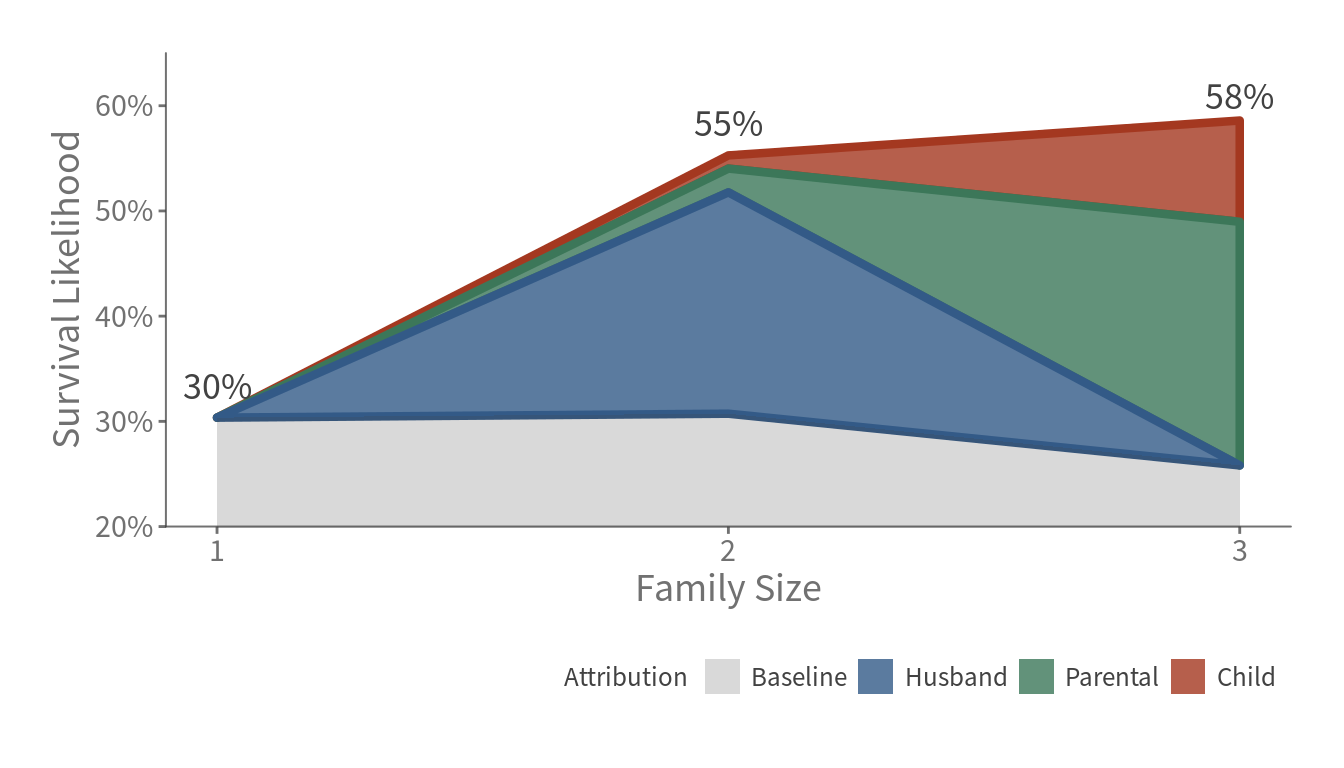
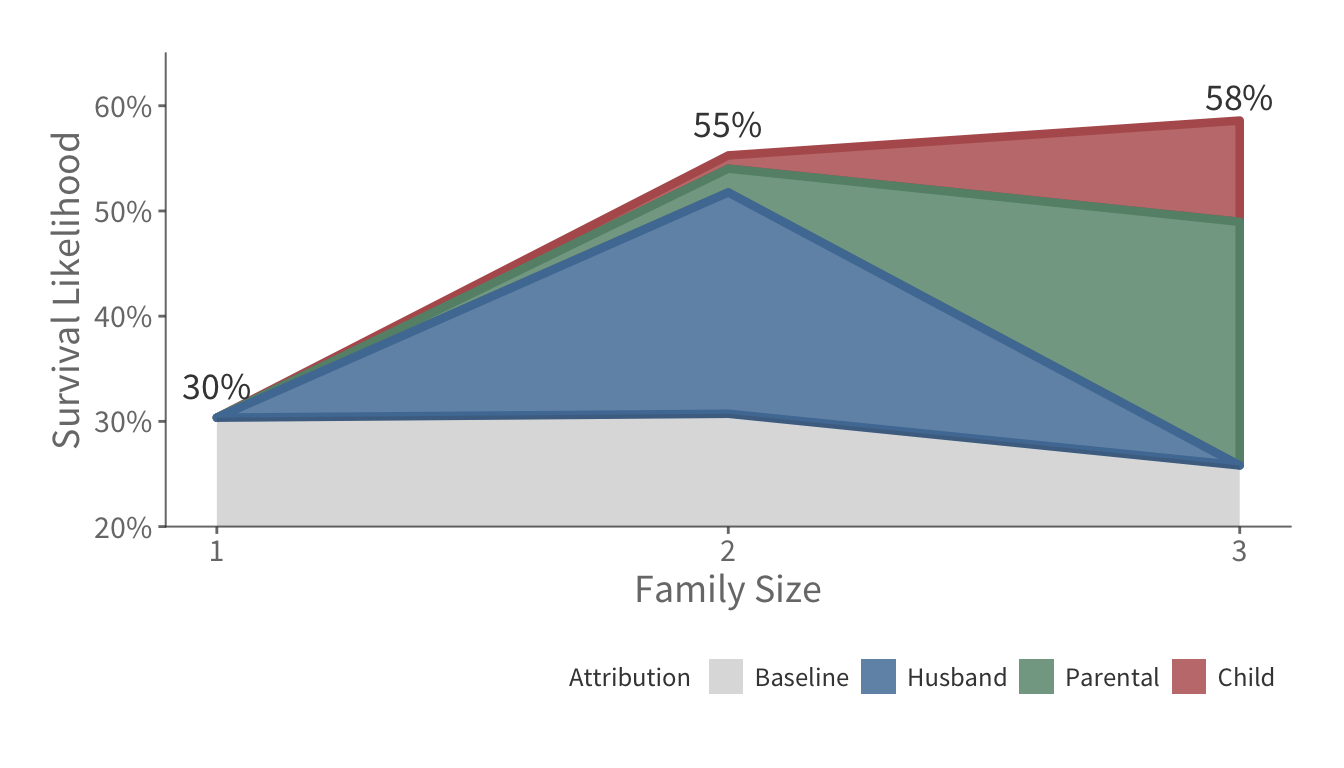
Change color to same intensity

diff --git a/index.html b/index.html
@@ -24,7 +24,7 @@
 <script src="index_files/navigation-1.1/codefolding.js"></script>
 <link href="index_files/highlightjs-9.12.0/default.css" rel="stylesheet" />
 <script src="index_files/highlightjs-9.12.0/highlight.js"></script>
-<script src="index_files/htmlwidgets-0.9/htmlwidgets.js"></script>
+<script src="index_files/htmlwidgets-0.8/htmlwidgets.js"></script>
 <link href="index_files/leaflet-0.7.7/leaflet.css" rel="stylesheet" />
 <script src="index_files/leaflet-0.7.7/leaflet.js"></script>
 <link href="index_files/leafletfix-1.0.0/leafletfix.css" rel="stylesheet" />
@@ -850,8 +850,8 @@ pwalk(
 )
 
 map</code></pre>
-<div id="htmlwidget-baa4f9e59cd2c0474483" style="width:100%;height:268.8px;" class="leaflet html-widget"></div>
-<script type="application/json" data-for="htmlwidget-baa4f9e59cd2c0474483">{"x":{"options":{"crs":{"crsClass":"L.CRS.EPSG3857","code":null,"proj4def":null,"projectedBounds":null,"options":{}}},"calls":[{"method":"addProviderTiles","args":["CartoDB.Positron",null,null,{"errorTileUrl":"","noWrap":false,"zIndex":null,"unloadInvisibleTiles":null,"updateWhenIdle":null,"detectRetina":false,"reuseTiles":false}]},{"method":"addAwesomeMarkers","args":[41.7666636,-50.2333324,{"icon":"ship","markerColor":"gray","iconColor":"#FFFFFF","spin":false,"squareMarker":false,"iconRotate":0,"font":"monospace","prefix":"fa"},null,null,{"clickable":true,"draggable":false,"keyboard":true,"title":"","alt":"","zIndexOffset":0,"opacity":1,"riseOnHover":false,"riseOffset":250},"Titanic Crash Site",null,null,null,null,null,null]},{"method":"addCircleMarkers","args":[49.645009,-1.62444,10,null,null,{"lineCap":null,"lineJoin":null,"clickable":true,"pointerEvents":null,"className":"","stroke":true,"color":"#89942F","weight":5,"opacity":0.8,"fill":true,"fillColor":"#89942F","fillOpacity":0.5,"dashArray":null},null,null,"Cherbough<br>Survival Likelihood: 55%",null,null,null,null]},{"method":"addCircleMarkers","args":[51.851,-8.2967,10,null,null,{"lineCap":null,"lineJoin":null,"clickable":true,"pointerEvents":null,"className":"","stroke":true,"color":"#A43820","weight":5,"opacity":0.8,"fill":true,"fillColor":"#A43820","fillOpacity":0.5,"dashArray":null},null,null,"Queenstown<br>Survival Likelihood: 39%",null,null,null,null]},{"method":"addCircleMarkers","args":[50.9038684,-1.4176118,15,null,null,{"lineCap":null,"lineJoin":null,"clickable":true,"pointerEvents":null,"className":"","stroke":true,"color":"#A43820","weight":5,"opacity":0.8,"fill":true,"fillColor":"#A43820","fillOpacity":0.5,"dashArray":null},null,null,"Southampton<br>Survival Likelihood: 34%",null,null,null,null]}],"limits":{"lat":[41.7666636,51.851],"lng":[-50.2333324,-1.4176118]}},"evals":[],"jsHooks":[]}</script>
+<div id="htmlwidget-c82f9e05cc160eb6d37a" style="width:100%;height:268.8px;" class="leaflet html-widget"></div>
+<script type="application/json" data-for="htmlwidget-c82f9e05cc160eb6d37a">{"x":{"options":{"crs":{"crsClass":"L.CRS.EPSG3857","code":null,"proj4def":null,"projectedBounds":null,"options":{}}},"calls":[{"method":"addProviderTiles","args":["CartoDB.Positron",null,null,{"errorTileUrl":"","noWrap":false,"zIndex":null,"unloadInvisibleTiles":null,"updateWhenIdle":null,"detectRetina":false,"reuseTiles":false}]},{"method":"addAwesomeMarkers","args":[41.7666636,-50.2333324,{"icon":"ship","markerColor":"gray","iconColor":"#FFFFFF","spin":false,"squareMarker":false,"iconRotate":0,"font":"monospace","prefix":"fa"},null,null,{"clickable":true,"draggable":false,"keyboard":true,"title":"","alt":"","zIndexOffset":0,"opacity":1,"riseOnHover":false,"riseOffset":250},"Titanic Crash Site",null,null,null,null,null,null]},{"method":"addCircleMarkers","args":[49.645009,-1.62444,10,null,null,{"lineCap":null,"lineJoin":null,"clickable":true,"pointerEvents":null,"className":"","stroke":true,"color":"#8F9B41","weight":5,"opacity":0.8,"fill":true,"fillColor":"#8F9B41","fillOpacity":0.5,"dashArray":null},null,null,"Cherbough<br>Survival Likelihood: 55%",null,null,null,null]},{"method":"addCircleMarkers","args":[51.851,-8.2967,10,null,null,{"lineCap":null,"lineJoin":null,"clickable":true,"pointerEvents":null,"className":"","stroke":true,"color":"#B55C5C","weight":5,"opacity":0.8,"fill":true,"fillColor":"#B55C5C","fillOpacity":0.5,"dashArray":null},null,null,"Queenstown<br>Survival Likelihood: 39%",null,null,null,null]},{"method":"addCircleMarkers","args":[50.9038684,-1.4176118,15,null,null,{"lineCap":null,"lineJoin":null,"clickable":true,"pointerEvents":null,"className":"","stroke":true,"color":"#B55C5C","weight":5,"opacity":0.8,"fill":true,"fillColor":"#B55C5C","fillOpacity":0.5,"dashArray":null},null,null,"Southampton<br>Survival Likelihood: 34%",null,null,null,null]}],"limits":{"lat":[41.7666636,51.851],"lng":[-50.2333324,-1.4176118]}},"evals":[],"jsHooks":[]}</script>
 <p><br> The map above indicates that those who embarked at Cherbough are more likely to survive. This is a puzzling observation as where the passenger embarks should not have an impact of what is happening on the Titanic.</p>
 <pre class="r"><code># Assessing the correlation between Embarkation and Passenger Class
 

diff --git a/README.md b/README.md
@@ -230,7 +230,7 @@ income_plot <-  ggplot(income_set, aes(x=SurvivalRate,
 income_plot
 ```
 
-<img src="/home/lemuel/Documents/github/Portfolios/titanic/README_files/figure-gfm/unnamed-chunk-4-1.png" style="display: block; margin: auto;" />
+<img src="/Users/lemuel/Documents/GitHub/Portfolios/titanic/README_files/figure-gfm/unnamed-chunk-4-1.png" style="display: block; margin: auto;" />
 
 The chart above shows that the more premium the class, the more likely
 passengers were to survive. One reason explaining this could be that 1st
@@ -265,7 +265,7 @@ fares_plot <- ggplot(fares_pdata, aes(x = FareMax,
 fares_plot
 ```
 
-<img src="/home/lemuel/Documents/github/Portfolios/titanic/README_files/figure-gfm/unnamed-chunk-5-1.png" style="display: block; margin: auto;" />
+<img src="/Users/lemuel/Documents/GitHub/Portfolios/titanic/README_files/figure-gfm/unnamed-chunk-5-1.png" style="display: block; margin: auto;" />
 
 Similarly, we also noticed this phenomenon in fares. Passengers who were
 paying more have a higher survival likelihood than others.
@@ -327,7 +327,7 @@ gender_plot <- ggplot(gender_sex_totals, aes(x = Prefix,
 gender_plot
 ```
 
-<img src="/home/lemuel/Documents/github/Portfolios/titanic/README_files/figure-gfm/unnamed-chunk-6-1.png" style="display: block; margin: auto;" />
+<img src="/Users/lemuel/Documents/GitHub/Portfolios/titanic/README_files/figure-gfm/unnamed-chunk-6-1.png" style="display: block; margin: auto;" />
 
 Other than <span class="hl color-1-text">Mr, Miss, Mrs and
 Master</span>, all other titles are not common to the average passenger.
@@ -379,7 +379,7 @@ title_plot <- ggplot(title_set, aes(x=Title,
 title_plot
 ```
 
-<img src="/home/lemuel/Documents/github/Portfolios/titanic/README_files/figure-gfm/unnamed-chunk-7-1.png" style="display: block; margin: auto;" />
+<img src="/Users/lemuel/Documents/GitHub/Portfolios/titanic/README_files/figure-gfm/unnamed-chunk-7-1.png" style="display: block; margin: auto;" />
 
 <span class="hl">All</span> females, regardless of their titles, have
 higher survival likelihoods than males. In addition, having a title
@@ -441,7 +441,7 @@ age_plot <- ggplot(age_pdata, aes(x=AgeMin,
 age_plot
 ```
 
-<img src="/home/lemuel/Documents/github/Portfolios/titanic/README_files/figure-gfm/unnamed-chunk-8-1.png" style="display: block; margin: auto;" />
+<img src="/Users/lemuel/Documents/GitHub/Portfolios/titanic/README_files/figure-gfm/unnamed-chunk-8-1.png" style="display: block; margin: auto;" />
 
 Among those passengers whose age were populated, we can see that younger
 individuals are more likely to survive. One possible explanation could
@@ -549,7 +549,7 @@ company_plot <- ggplot(company_stack, aes(x= Size, y= Value)) +
 company_plot 
 ```
 
-<img src="/home/lemuel/Documents/github/Portfolios/titanic/README_files/figure-gfm/unnamed-chunk-9-1.png" style="display: block; margin: auto;" />
+<img src="/Users/lemuel/Documents/GitHub/Portfolios/titanic/README_files/figure-gfm/unnamed-chunk-9-1.png" style="display: block; margin: auto;" />
 
 This counterintuitive relationship can be explained through 3 factors:
 
@@ -689,7 +689,7 @@ cabinLet_plot <- ggplot(cabinLet_set, aes(x=as.factor(CabinFloor),
 cabinLet_plot
 ```
 
-<img src="/home/lemuel/Documents/github/Portfolios/titanic/README_files/figure-gfm/unnamed-chunk-10-1.png" style="display: block; margin: auto;" />
+<img src="/Users/lemuel/Documents/GitHub/Portfolios/titanic/README_files/figure-gfm/unnamed-chunk-10-1.png" style="display: block; margin: auto;" />
 
 From the chart above, we know that <span class="hl">Cabins B to E</span>
 has a higher likelihood of survival compared to other cabins. This
@@ -764,7 +764,7 @@ cabinNumber_plot <- ggplot(cabinNumber_set, aes(x = SurvivalRate,
 cabinNumber_plot
 ```
 
-<img src="/home/lemuel/Documents/github/Portfolios/titanic/README_files/figure-gfm/unnamed-chunk-11-1.png" style="display: block; margin: auto;" />
+<img src="/Users/lemuel/Documents/GitHub/Portfolios/titanic/README_files/figure-gfm/unnamed-chunk-11-1.png" style="display: block; margin: auto;" />
 
 It is pretty clear that those who stay in the odd rooms are more likely
 to survive than those in the even rooms.
@@ -836,11 +836,11 @@ map
 
 <!--html_preserve-->
 
-<div id="htmlwidget-1552c50f36d063da0d4f" class="leaflet html-widget" style="width:100%;height:268.8px;">
+<div id="htmlwidget-7385b03525b059dab75e" class="leaflet html-widget" style="width:100%;height:268.8px;">
 
 </div>
 
-<script type="application/json" data-for="htmlwidget-1552c50f36d063da0d4f">{"x":{"options":{"crs":{"crsClass":"L.CRS.EPSG3857","code":null,"proj4def":null,"projectedBounds":null,"options":{}}},"calls":[{"method":"addProviderTiles","args":["CartoDB.Positron",null,null,{"errorTileUrl":"","noWrap":false,"zIndex":null,"unloadInvisibleTiles":null,"updateWhenIdle":null,"detectRetina":false,"reuseTiles":false}]},{"method":"addAwesomeMarkers","args":[41.7666636,-50.2333324,{"icon":"ship","markerColor":"gray","iconColor":"#FFFFFF","spin":false,"squareMarker":false,"iconRotate":0,"font":"monospace","prefix":"fa"},null,null,{"clickable":true,"draggable":false,"keyboard":true,"title":"","alt":"","zIndexOffset":0,"opacity":1,"riseOnHover":false,"riseOffset":250},"Titanic Crash Site",null,null,null,null,null,null]},{"method":"addCircleMarkers","args":[49.645009,-1.62444,10,null,null,{"lineCap":null,"lineJoin":null,"clickable":true,"pointerEvents":null,"className":"","stroke":true,"color":"#89942F","weight":5,"opacity":0.8,"fill":true,"fillColor":"#89942F","fillOpacity":0.5,"dashArray":null},null,null,"Cherbough<br>Survival Likelihood: 55%",null,null,null,null]},{"method":"addCircleMarkers","args":[51.851,-8.2967,10,null,null,{"lineCap":null,"lineJoin":null,"clickable":true,"pointerEvents":null,"className":"","stroke":true,"color":"#A43820","weight":5,"opacity":0.8,"fill":true,"fillColor":"#A43820","fillOpacity":0.5,"dashArray":null},null,null,"Queenstown<br>Survival Likelihood: 39%",null,null,null,null]},{"method":"addCircleMarkers","args":[50.9038684,-1.4176118,15,null,null,{"lineCap":null,"lineJoin":null,"clickable":true,"pointerEvents":null,"className":"","stroke":true,"color":"#A43820","weight":5,"opacity":0.8,"fill":true,"fillColor":"#A43820","fillOpacity":0.5,"dashArray":null},null,null,"Southampton<br>Survival Likelihood: 34%",null,null,null,null]}],"limits":{"lat":[41.7666636,51.851],"lng":[-50.2333324,-1.4176118]}},"evals":[],"jsHooks":[]}</script>
+<script type="application/json" data-for="htmlwidget-7385b03525b059dab75e">{"x":{"options":{"crs":{"crsClass":"L.CRS.EPSG3857","code":null,"proj4def":null,"projectedBounds":null,"options":{}}},"calls":[{"method":"addProviderTiles","args":["CartoDB.Positron",null,null,{"errorTileUrl":"","noWrap":false,"zIndex":null,"unloadInvisibleTiles":null,"updateWhenIdle":null,"detectRetina":false,"reuseTiles":false}]},{"method":"addAwesomeMarkers","args":[41.7666636,-50.2333324,{"icon":"ship","markerColor":"gray","iconColor":"#FFFFFF","spin":false,"squareMarker":false,"iconRotate":0,"font":"monospace","prefix":"fa"},null,null,{"clickable":true,"draggable":false,"keyboard":true,"title":"","alt":"","zIndexOffset":0,"opacity":1,"riseOnHover":false,"riseOffset":250},"Titanic Crash Site",null,null,null,null,null,null]},{"method":"addCircleMarkers","args":[49.645009,-1.62444,10,null,null,{"lineCap":null,"lineJoin":null,"clickable":true,"pointerEvents":null,"className":"","stroke":true,"color":"#8F9B41","weight":5,"opacity":0.8,"fill":true,"fillColor":"#8F9B41","fillOpacity":0.5,"dashArray":null},null,null,"Cherbough<br>Survival Likelihood: 55%",null,null,null,null]},{"method":"addCircleMarkers","args":[51.851,-8.2967,10,null,null,{"lineCap":null,"lineJoin":null,"clickable":true,"pointerEvents":null,"className":"","stroke":true,"color":"#B55C5C","weight":5,"opacity":0.8,"fill":true,"fillColor":"#B55C5C","fillOpacity":0.5,"dashArray":null},null,null,"Queenstown<br>Survival Likelihood: 39%",null,null,null,null]},{"method":"addCircleMarkers","args":[50.9038684,-1.4176118,15,null,null,{"lineCap":null,"lineJoin":null,"clickable":true,"pointerEvents":null,"className":"","stroke":true,"color":"#B55C5C","weight":5,"opacity":0.8,"fill":true,"fillColor":"#B55C5C","fillOpacity":0.5,"dashArray":null},null,null,"Southampton<br>Survival Likelihood: 34%",null,null,null,null]}],"limits":{"lat":[41.7666636,51.851],"lng":[-50.2333324,-1.4176118]}},"evals":[],"jsHooks":[]}</script>
 
 <!--/html_preserve-->
 
@@ -896,7 +896,7 @@ embark_pclass_plot <- ggplot(embark_pclass, aes(x=as.factor(Embarked),
 embark_pclass_plot
 ```
 
-<img src="/home/lemuel/Documents/github/Portfolios/titanic/README_files/figure-gfm/unnamed-chunk-13-1.png" style="display: block; margin: auto;" />
+<img src="/Users/lemuel/Documents/GitHub/Portfolios/titanic/README_files/figure-gfm/unnamed-chunk-13-1.png" style="display: block; margin: auto;" />
 
 However, by studying the demographics of the passengers embarking at
 each port, we discovered that a higher proportion of Cherbough are 1st
@@ -1297,7 +1297,7 @@ z_plot <- ggplot(data = z_scores, aes(x = sapply(z_scores$Zscore, function (x) {
 z_plot
 ```
 
-<img src="/home/lemuel/Documents/github/Portfolios/titanic/README_files/figure-gfm/unnamed-chunk-19-1.png" style="display: block; margin: auto;" />
+<img src="/Users/lemuel/Documents/GitHub/Portfolios/titanic/README_files/figure-gfm/unnamed-chunk-19-1.png" style="display: block; margin: auto;" />
 
 Using a 1% significant level as the baseline, we conclude that all the
 factors are statistically significant. This means that for each of the
